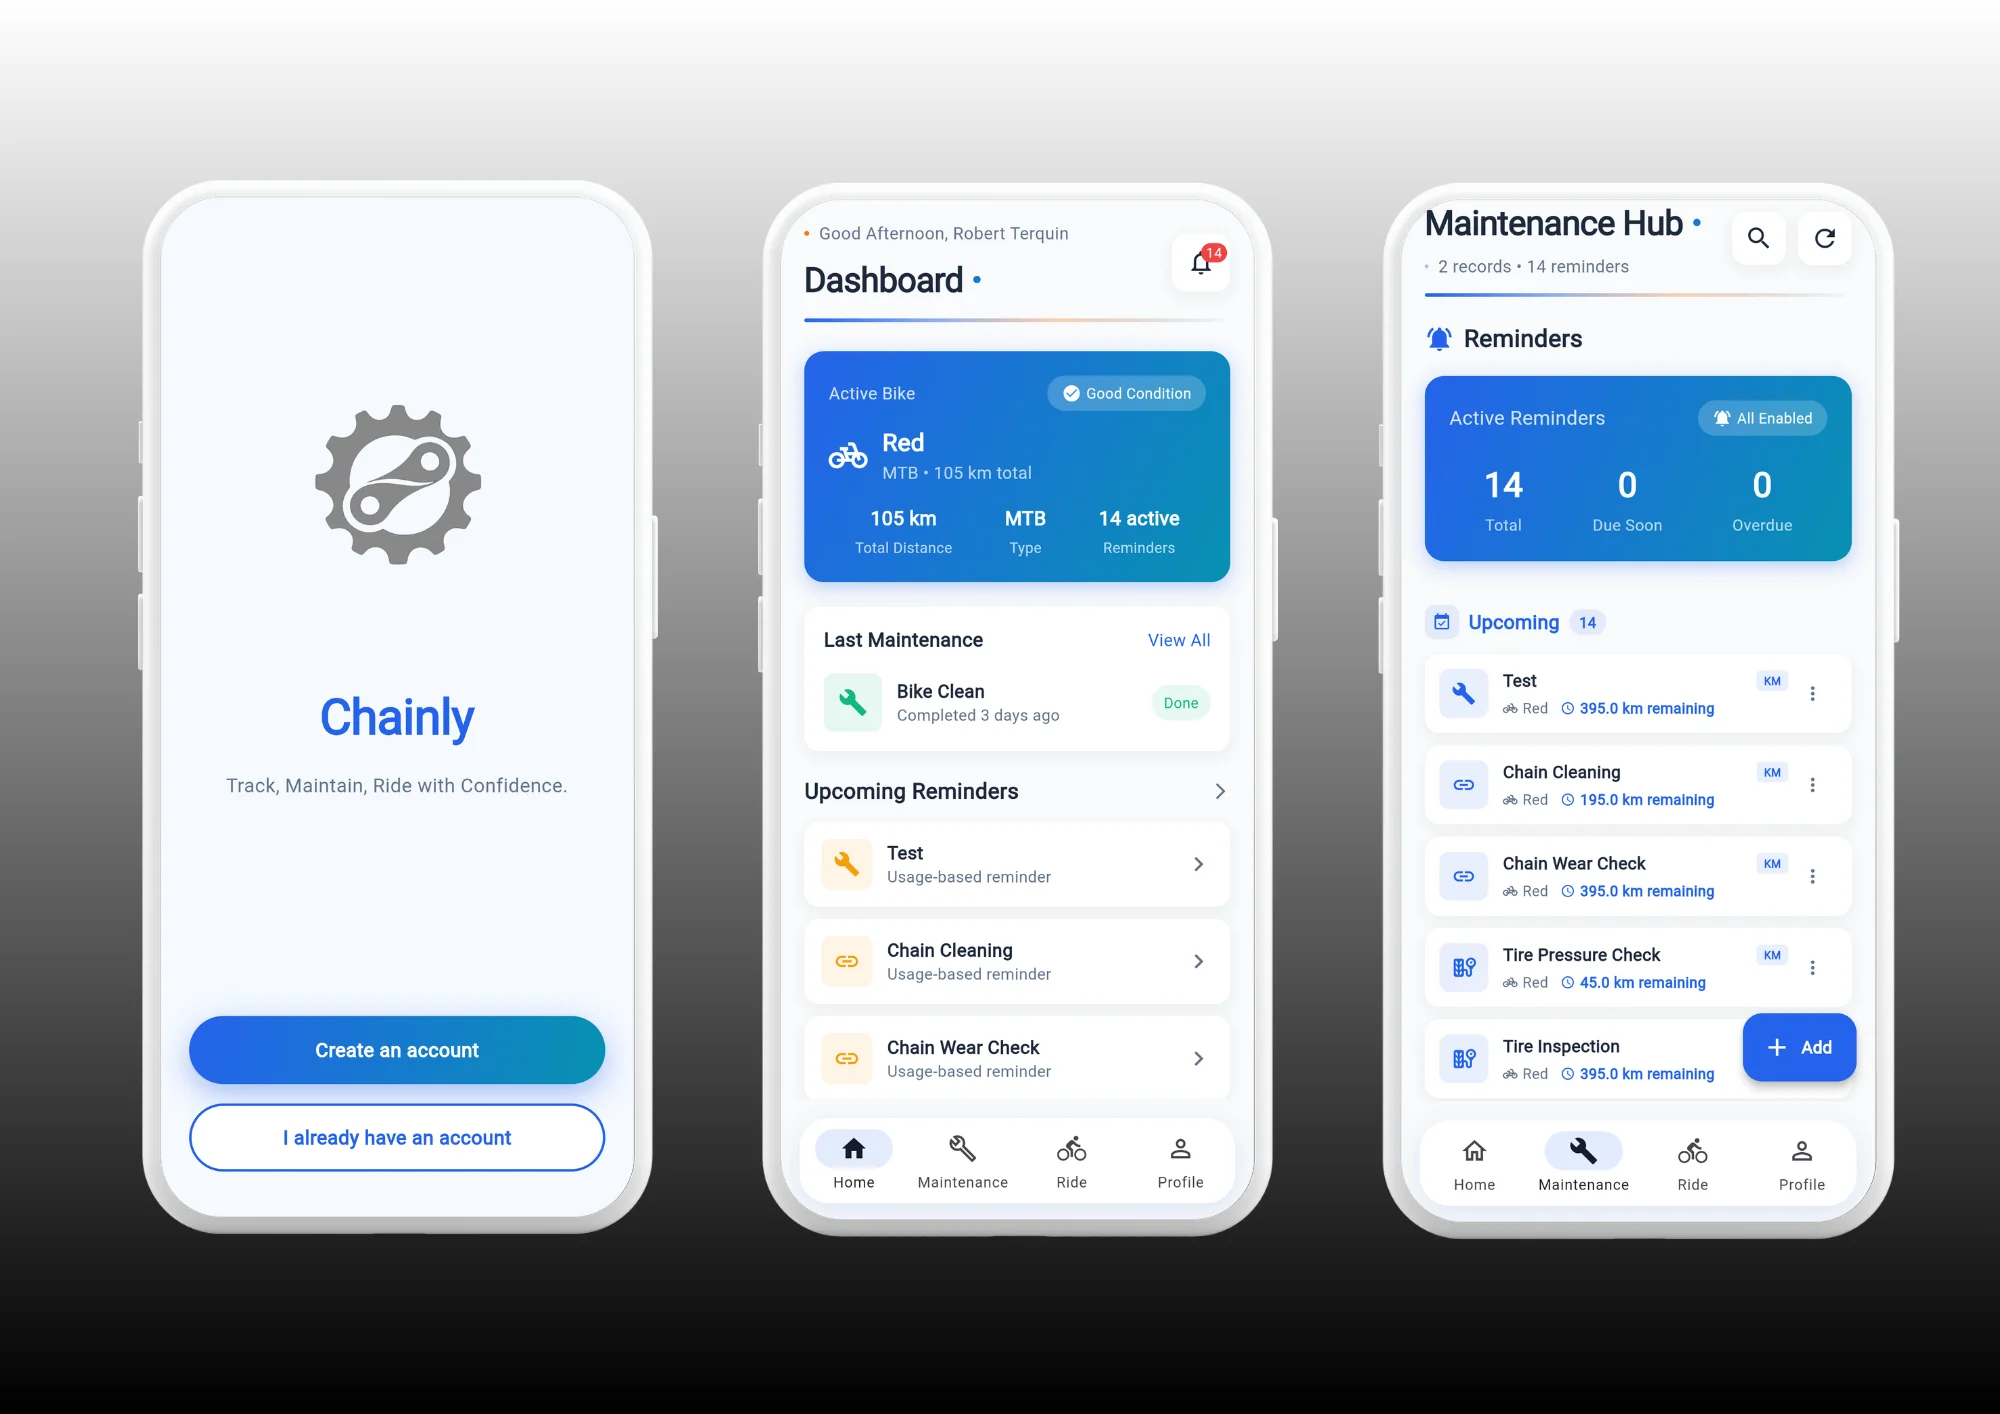
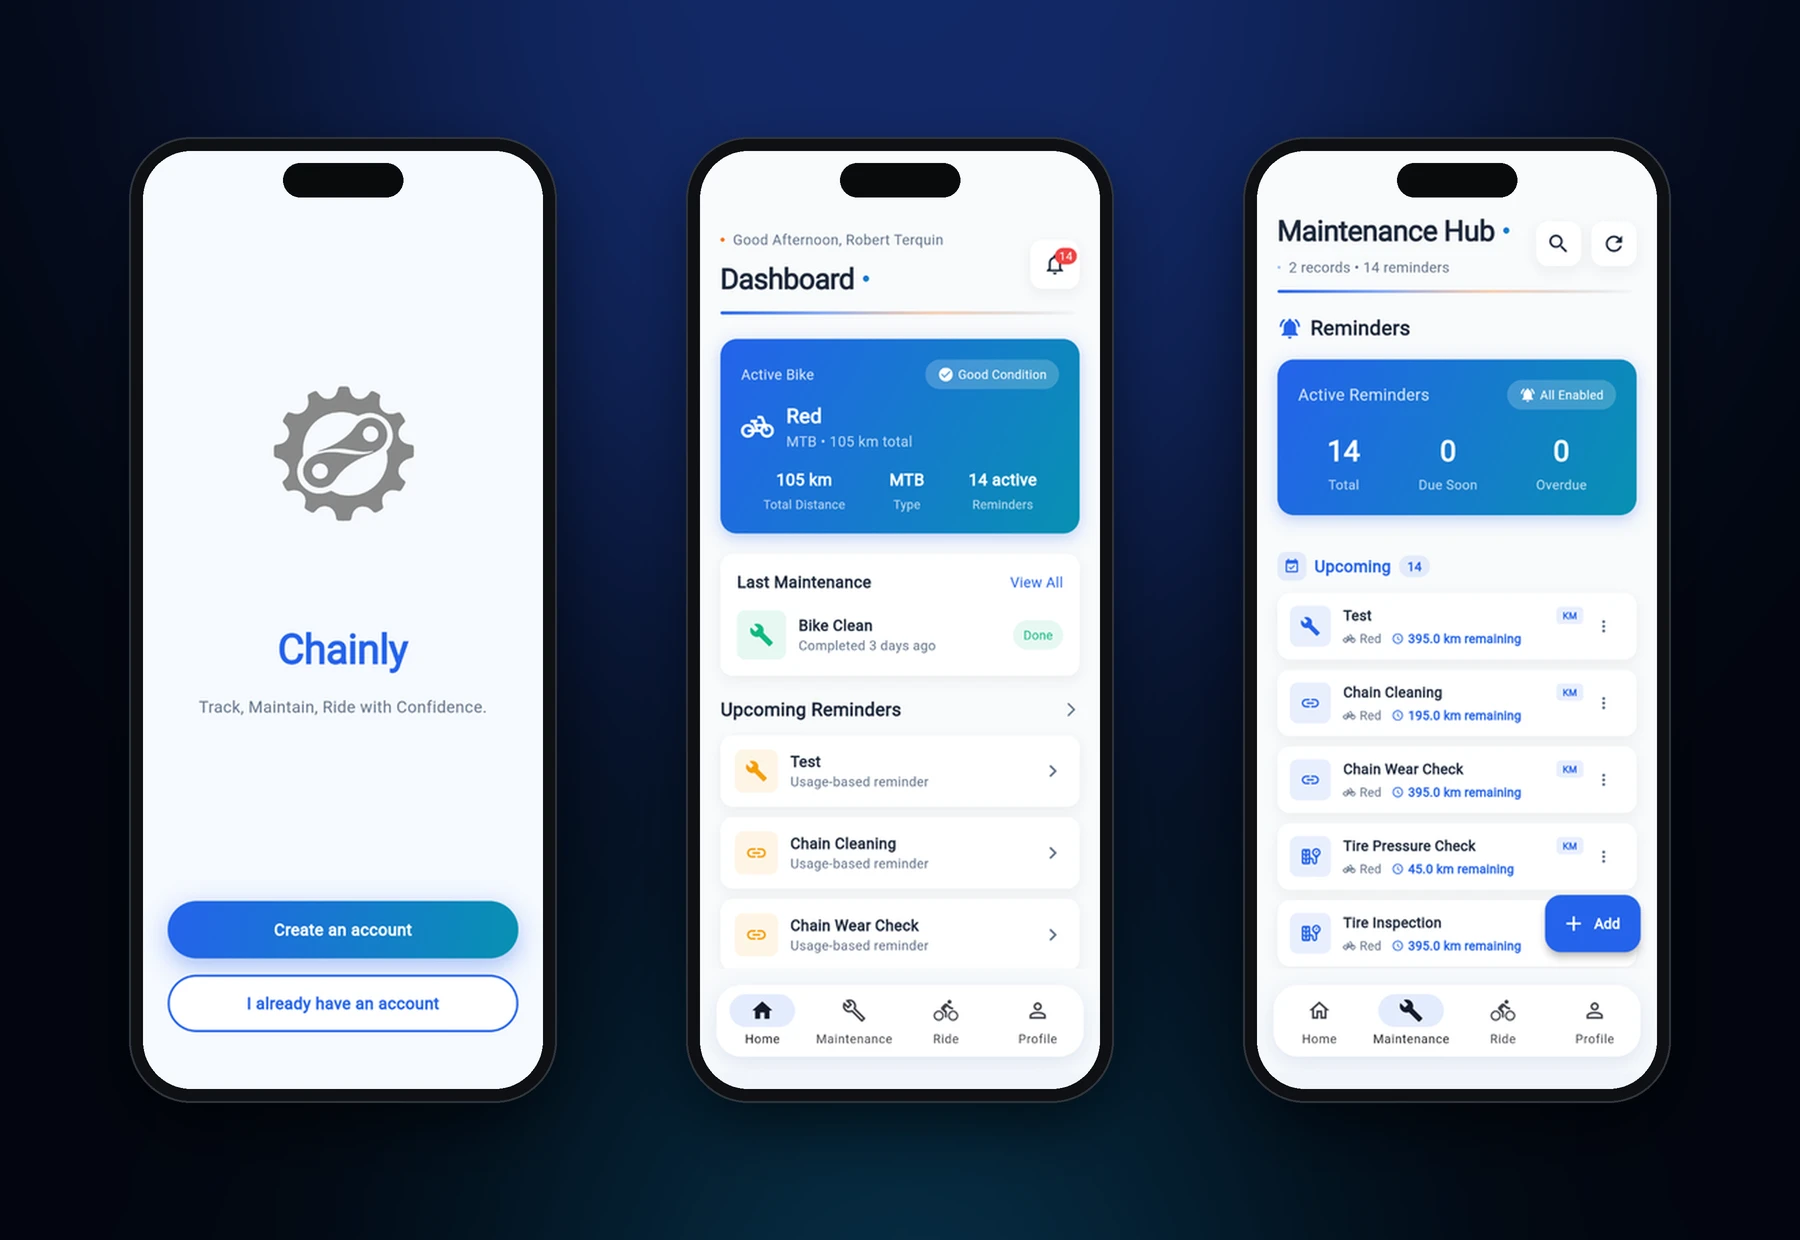
chore: update showcase images for OncoSense, Spendly and Chainly

diff --git a/src/data/portfolioData.ts b/src/data/portfolioData.ts
@@ -32,7 +32,7 @@ export const projectsData: Project[] = [
     detail:
       'Built with Flutter and Riverpod on Supabase Auth and PostgreSQL. Journey data is cached on the device and synced to Supabase, scheduled local notifications deliver daily health tips and reminders, and the GNews API powers a live cancer news feed.',
     stack: 'Flutter · Dart · Riverpod · Supabase',
-    image: '/projects/oncosense-showcase.webp',
+    image: '/projects/oncosense-showcase.png',
     highlights: [
       'Journey tracker for diagnosis, treatments with session counts and side effects, daily mood, pain and symptoms, and cancer-free milestones',
       'Prevention tips, self-check guides, and a cancer type library, backed by scheduled health tips and reminders',
